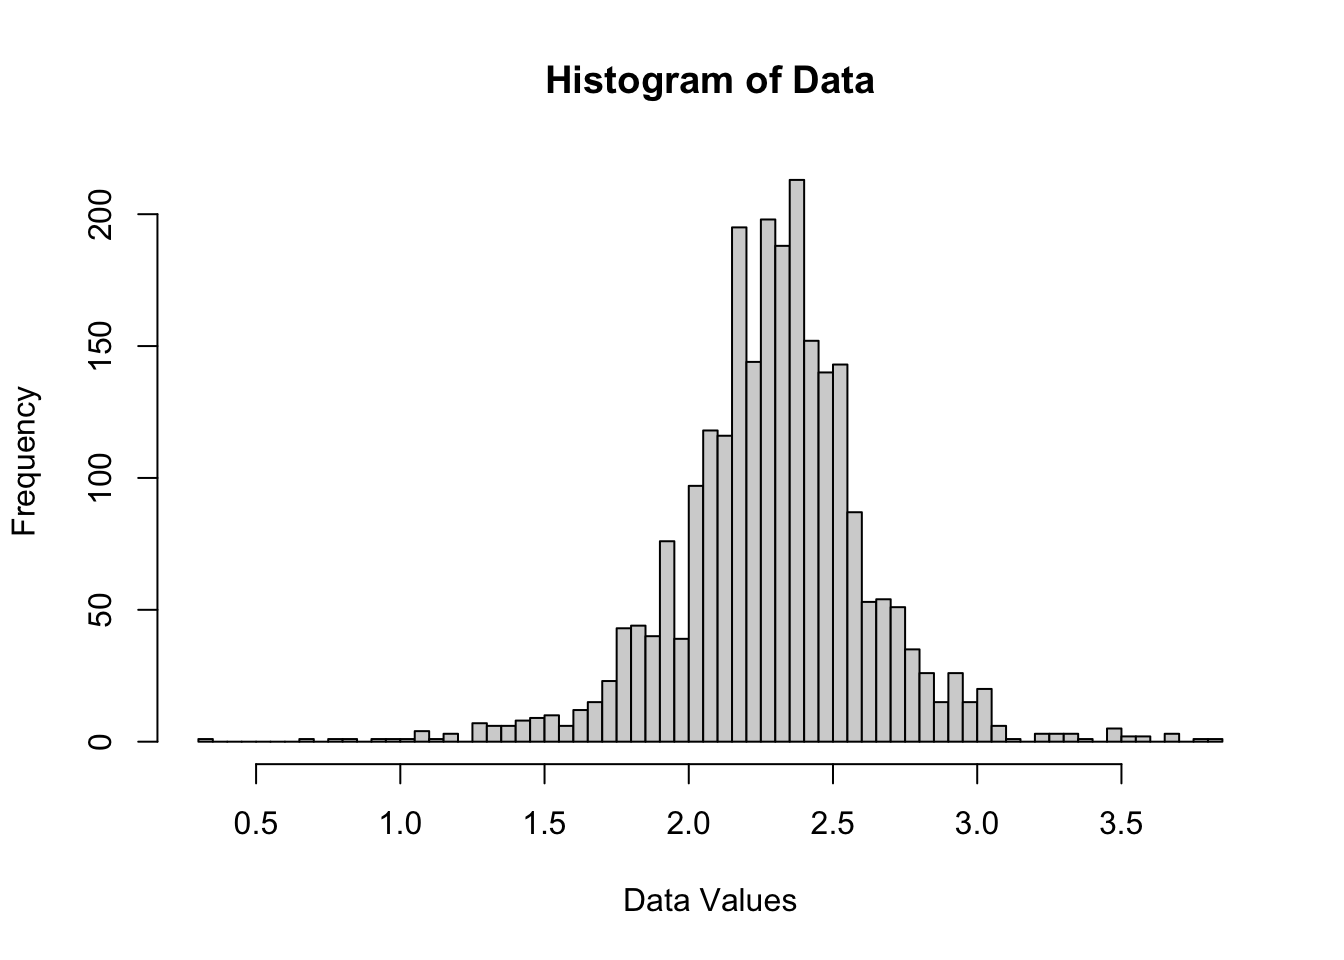
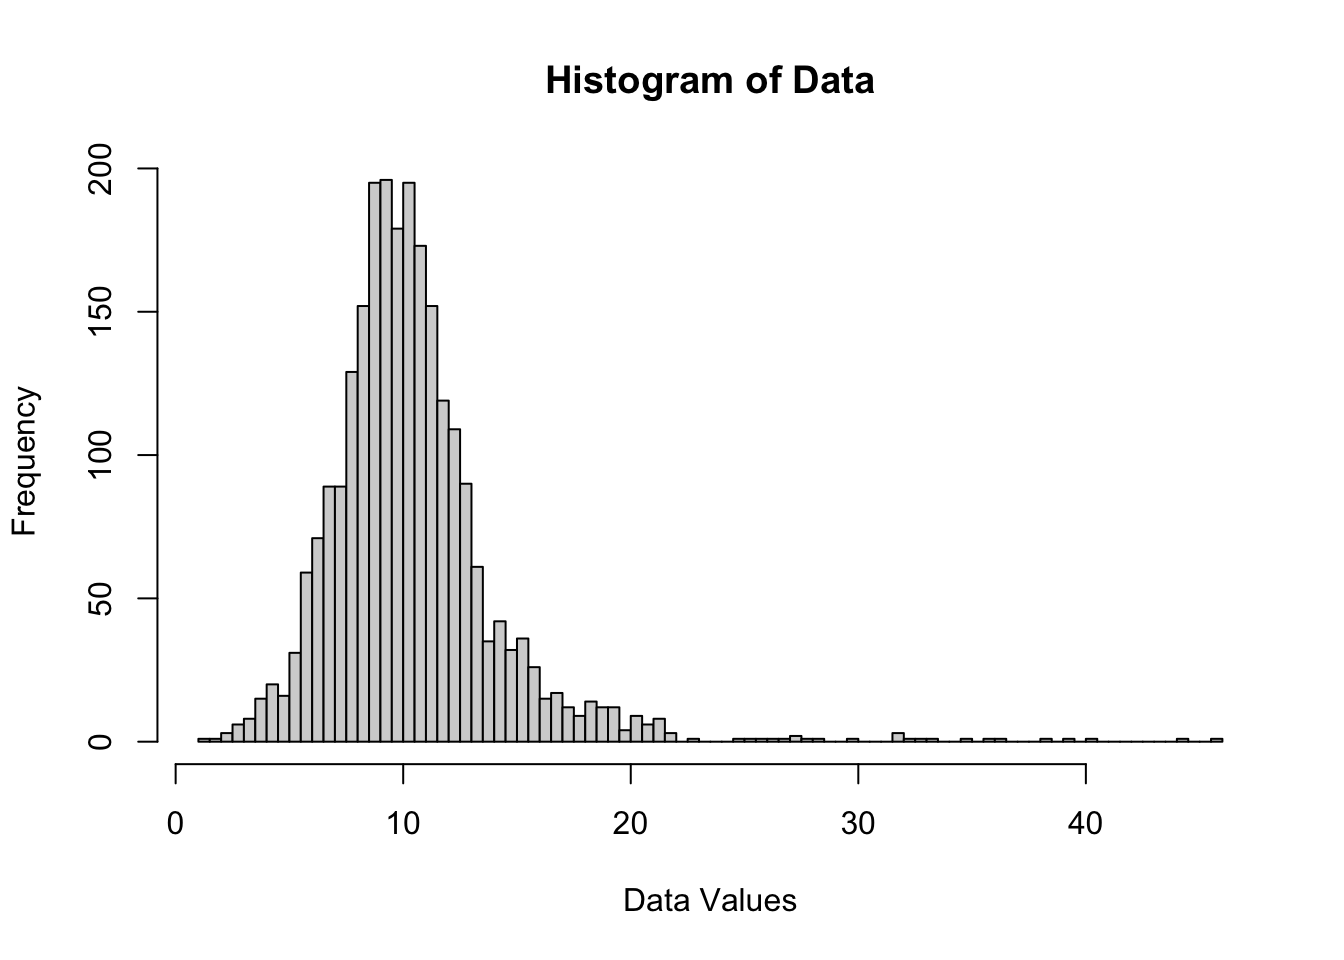
Double check my code and simplify everything.

diff --git a/statistical_analysis.html b/statistical_analysis.html
@@ -588,18 +588,13 @@ Medication for Mental Health.</li>
 </ul>
 <pre class="r"><code>shapiro_test_result &lt;- shapiro.test(pull(Indicator1,value))
 
-hist(log(Indicator1$value), breaks = &quot;FD&quot;, main = &quot;Histogram of Data&quot;, xlab = &quot;Data Values&quot;)</code></pre>
-<p><img src="statistical_analysis_files/figure-html/unnamed-chunk-11-1.png" width="672" /></p>
-<pre class="r"><code>Indicator1_log=Indicator1 |&gt; mutate(value=log(value))
-shapiro_test_result &lt;- shapiro.test(pull(Indicator1_log,value))</code></pre>
-<p>Shapiro-Wilk normality test result : (W = 0.93709, p-value &lt;
+hist(Indicator1$value, breaks = &quot;FD&quot;, main = &quot;Histogram of Data&quot;, xlab = &quot;Data Values&quot;)</code></pre>
+<p><img src="statistical_analysis_files/figure-html/unnamed-chunk-11-1.png" width="672" />
+Shapiro-Wilk normality test result : (W = 0.93709, p-value &lt;
 2.2e-16), The p-value is extremely small (&lt; 2.2e-16), which provides
 strong evidence suggest that the data does not come from a normal
 distribution, and hence, we reject the null hypothesis of normality at
 0.05 level of significance.</p>
-<p>The histogram looks a little bit like normal after I applied the log
-transformation. However, the shapiro wilk test’s result is still
-significant to suggest this is not normally distributed.</p>
 <ul>
 <li>Step2: Perform Kruskal-Wallis test for indicator 1 dataset</li>
 </ul>
@@ -621,18 +616,13 @@ or Therapy</li>
 </ul>
 <pre class="r"><code>shapiro_test_result &lt;- shapiro.test(pull(Indicator2,value))
 
-hist(log(Indicator2$value), breaks = &quot;FD&quot;, main = &quot;Histogram of Data&quot;, xlab = &quot;Data Values&quot;)</code></pre>
-<p><img src="statistical_analysis_files/figure-html/unnamed-chunk-13-1.png" width="672" /></p>
-<pre class="r"><code>Indicator2_log=Indicator2 |&gt; mutate(value=log(value))
-shapiro_test_result &lt;- shapiro.test(pull(Indicator2_log,value))</code></pre>
-<p>Shapiro-Wilk normality test result : (W = 0.83846, p-value &lt;
+hist(Indicator2$value, breaks = &quot;FD&quot;, main = &quot;Histogram of Data&quot;, xlab = &quot;Data Values&quot;)</code></pre>
+<p><img src="statistical_analysis_files/figure-html/unnamed-chunk-13-1.png" width="672" />
+Shapiro-Wilk normality test result : (W = 0.83846, p-value &lt;
 2.2e-16), The p-value is extremely small (&lt; 2.2e-16), which provides
 strong evidence suggest that the data does not come from a normal
 distribution, and hence, we reject the null hypothesis of normality at
 0.05 level of significance.</p>
-<p>The histogram looks a little bit like normal after I applied the log
-transformation. However, the shapiro wilk test’s result is still
-significant to suggest this is not normally distributed.</p>
 <ul>
 <li>step 4: Perform Kruskal-Wallis test for indicator 2 dataset</li>
 </ul>
@@ -654,18 +644,13 @@ Medication for Mental Health And/Or Received Counseling or Therapy</li>
 </ul>
 <pre class="r"><code>shapiro_test_result &lt;- shapiro.test(pull(Indicator3,value))
 
-hist(log(Indicator3$value), breaks = &quot;FD&quot;, main = &quot;Histogram of Data&quot;, xlab = &quot;Data Values&quot;)</code></pre>
-<p><img src="statistical_analysis_files/figure-html/unnamed-chunk-15-1.png" width="672" /></p>
-<pre class="r"><code>Indicator3_log=Indicator3 |&gt; mutate(value=log(value))
-shapiro_test_result &lt;- shapiro.test(pull(Indicator3_log,value))</code></pre>
-<p>Shapiro-Wilk normality test result : (W = 0.95871, p-value &lt;
+hist(Indicator3$value, breaks = &quot;FD&quot;, main = &quot;Histogram of Data&quot;, xlab = &quot;Data Values&quot;)</code></pre>
+<p><img src="statistical_analysis_files/figure-html/unnamed-chunk-15-1.png" width="672" />
+Shapiro-Wilk normality test result : (W = 0.95871, p-value &lt;
 2.2e-16), The p-value is extremely small (&lt; 2.2e-16), which provides
 strong evidence suggest that the data does not come from a normal
 distribution, and hence, we reject the null hypothesis of normality at
 0.05 level of significance.</p>
-<p>The histogram looks a little bit like normal after I applied the log
-transformation. However, the shapiro wilk test’s result is still
-significant to suggest this is not normally distributed.</p>
 <ul>
 <li>step 6: Perform Kruskal-Wallis test for Indicator 3 dataset</li>
 </ul>
@@ -687,20 +672,15 @@ Therapy But Did Not Get It.</li>
 </ul>
 <pre class="r"><code>shapiro_test_result &lt;- shapiro.test(pull(Indicator4,value))
 
-hist(log(Indicator3$value), breaks = &quot;FD&quot;, main = &quot;Histogram of Data&quot;, xlab = &quot;Data Values&quot;)</code></pre>
-<p><img src="statistical_analysis_files/figure-html/unnamed-chunk-17-1.png" width="672" /></p>
-<pre class="r"><code>Indicator4_log=Indicator4 |&gt; mutate(value=log(value))
-shapiro_test_result &lt;- shapiro.test(pull(Indicator4_log,value))</code></pre>
-<p>Shapiro-Wilk normality test result : (W = 0.8161, p-value &lt;
-2.2e-16), The p-value is extremely small (&lt; 2.2e-16), which provides
-strong evidence suggest that the data does not come from a normal
-distribution, and hence, we reject the null hypothesis of normality at
-0.05 level of significance.</p>
-<p>The histogram looks a little bit like normal after I applied the log
-transformation. However, the shapiro wilk test’s result is still
-significant to suggest this is not normally distributed.</p>
+hist(Indicator4$value, breaks = &quot;FD&quot;, main = &quot;Histogram of Data&quot;, xlab = &quot;Data Values&quot;)</code></pre>
+<p><img src="statistical_analysis_files/figure-html/unnamed-chunk-17-1.png" width="672" />
+Shapiro-Wilk normality test result : (W = 0.8161, p-value &lt; 2.2e-16),
+The p-value is extremely small (&lt; 2.2e-16), which provides strong
+evidence suggest that the data does not come from a normal distribution,
+and hence, we reject the null hypothesis of normality at 0.05 level of
+significance.</p>
 <ul>
-<li>step 6: Perform Kruskal-Wallis test for Indicator 4 dataset</li>
+<li>step 8: Perform Kruskal-Wallis test for Indicator 4 dataset</li>
 </ul>
 <pre class="r"><code>kruskal_result=kruskal.test(value ~ subgroup, data = Indicator4)</code></pre>
 <p>Kruskal-Wallis Chi-squared=1539.6. This is the test statistic that
